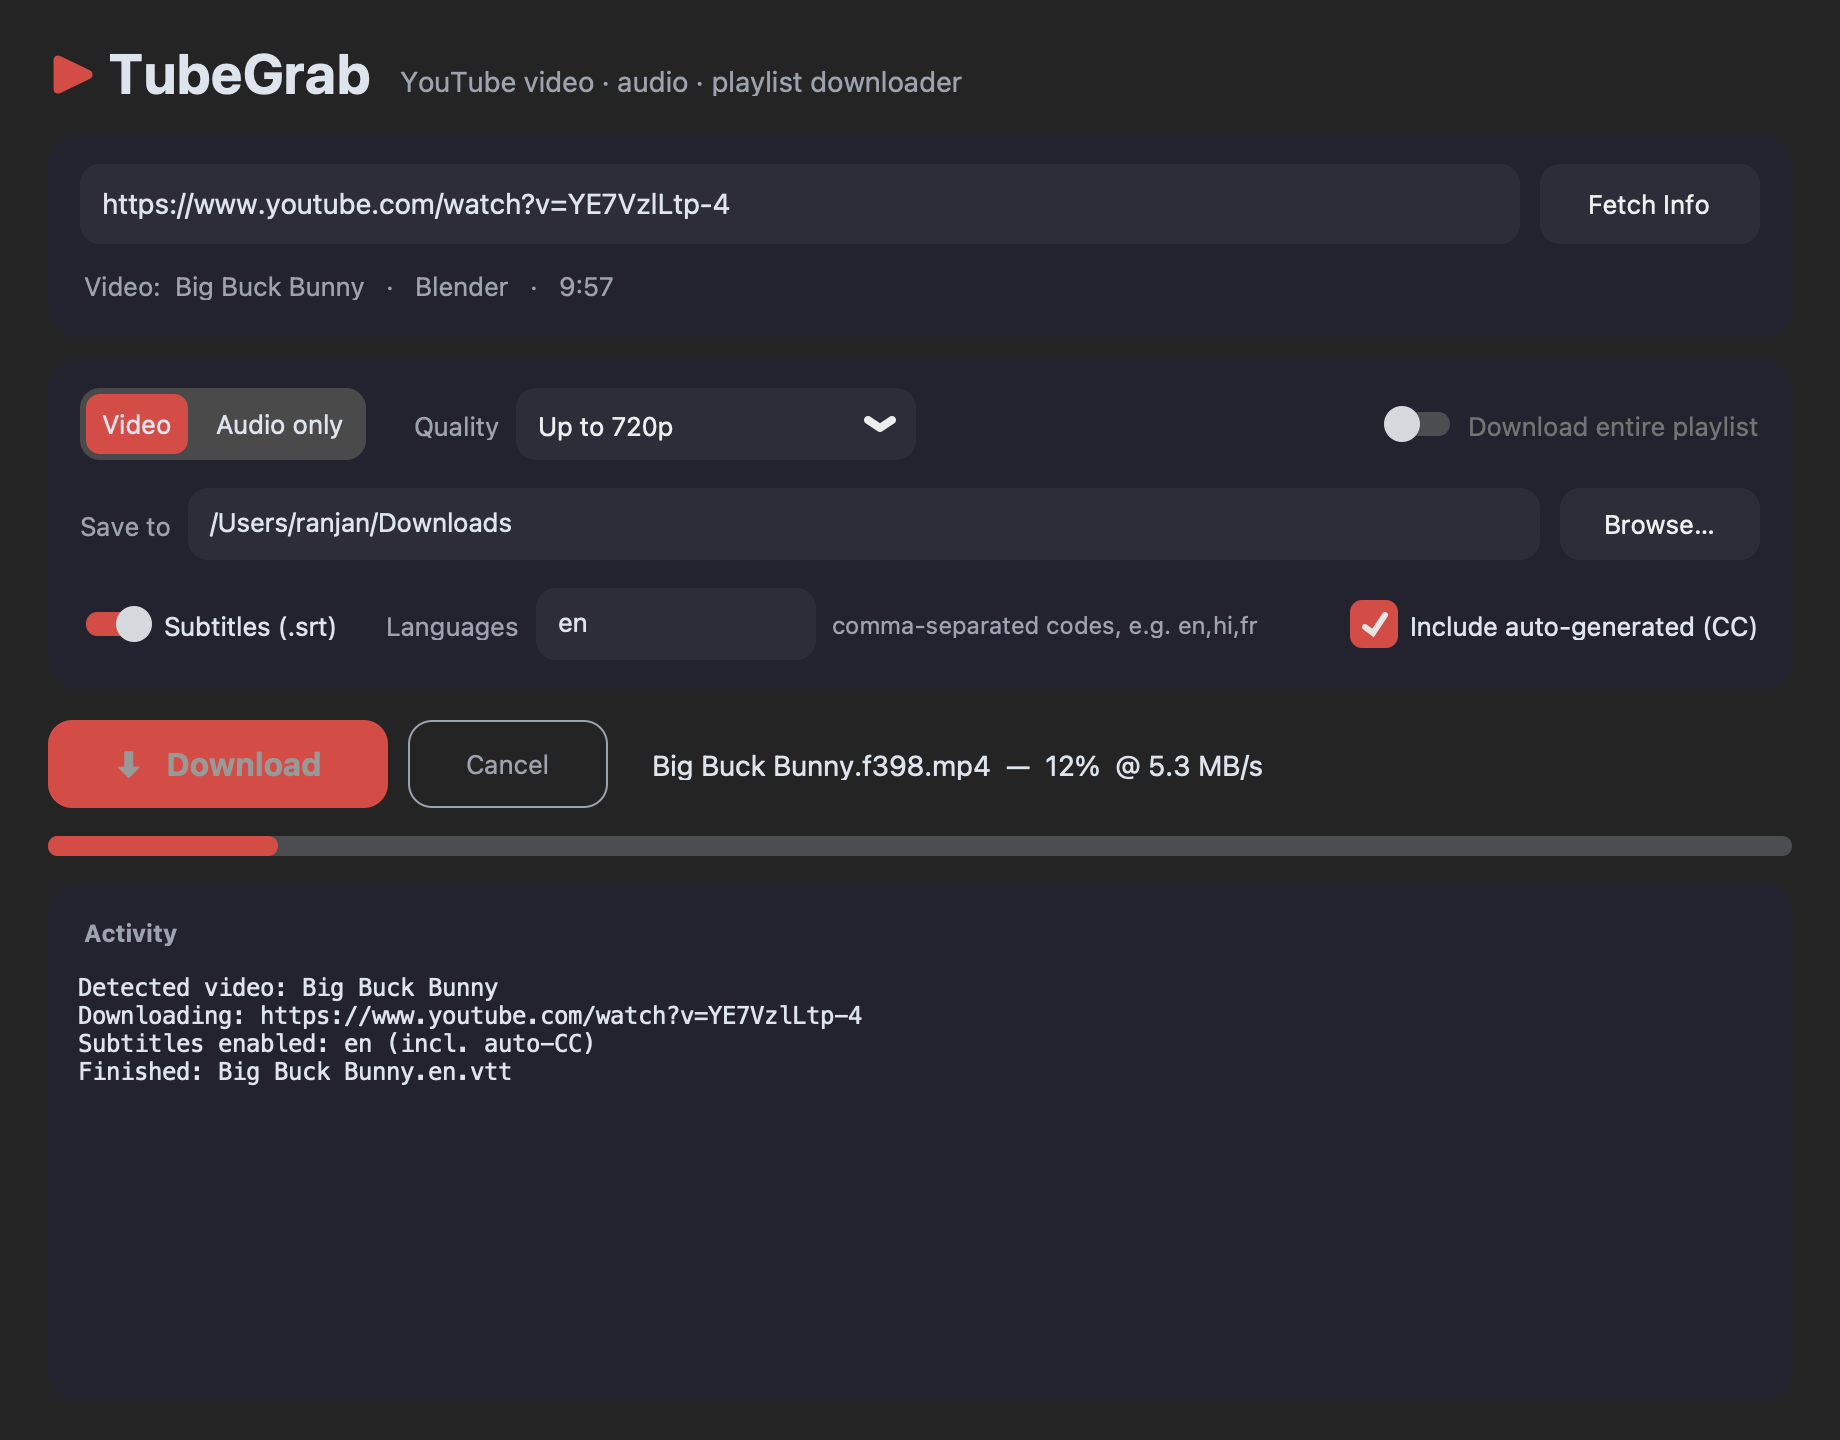
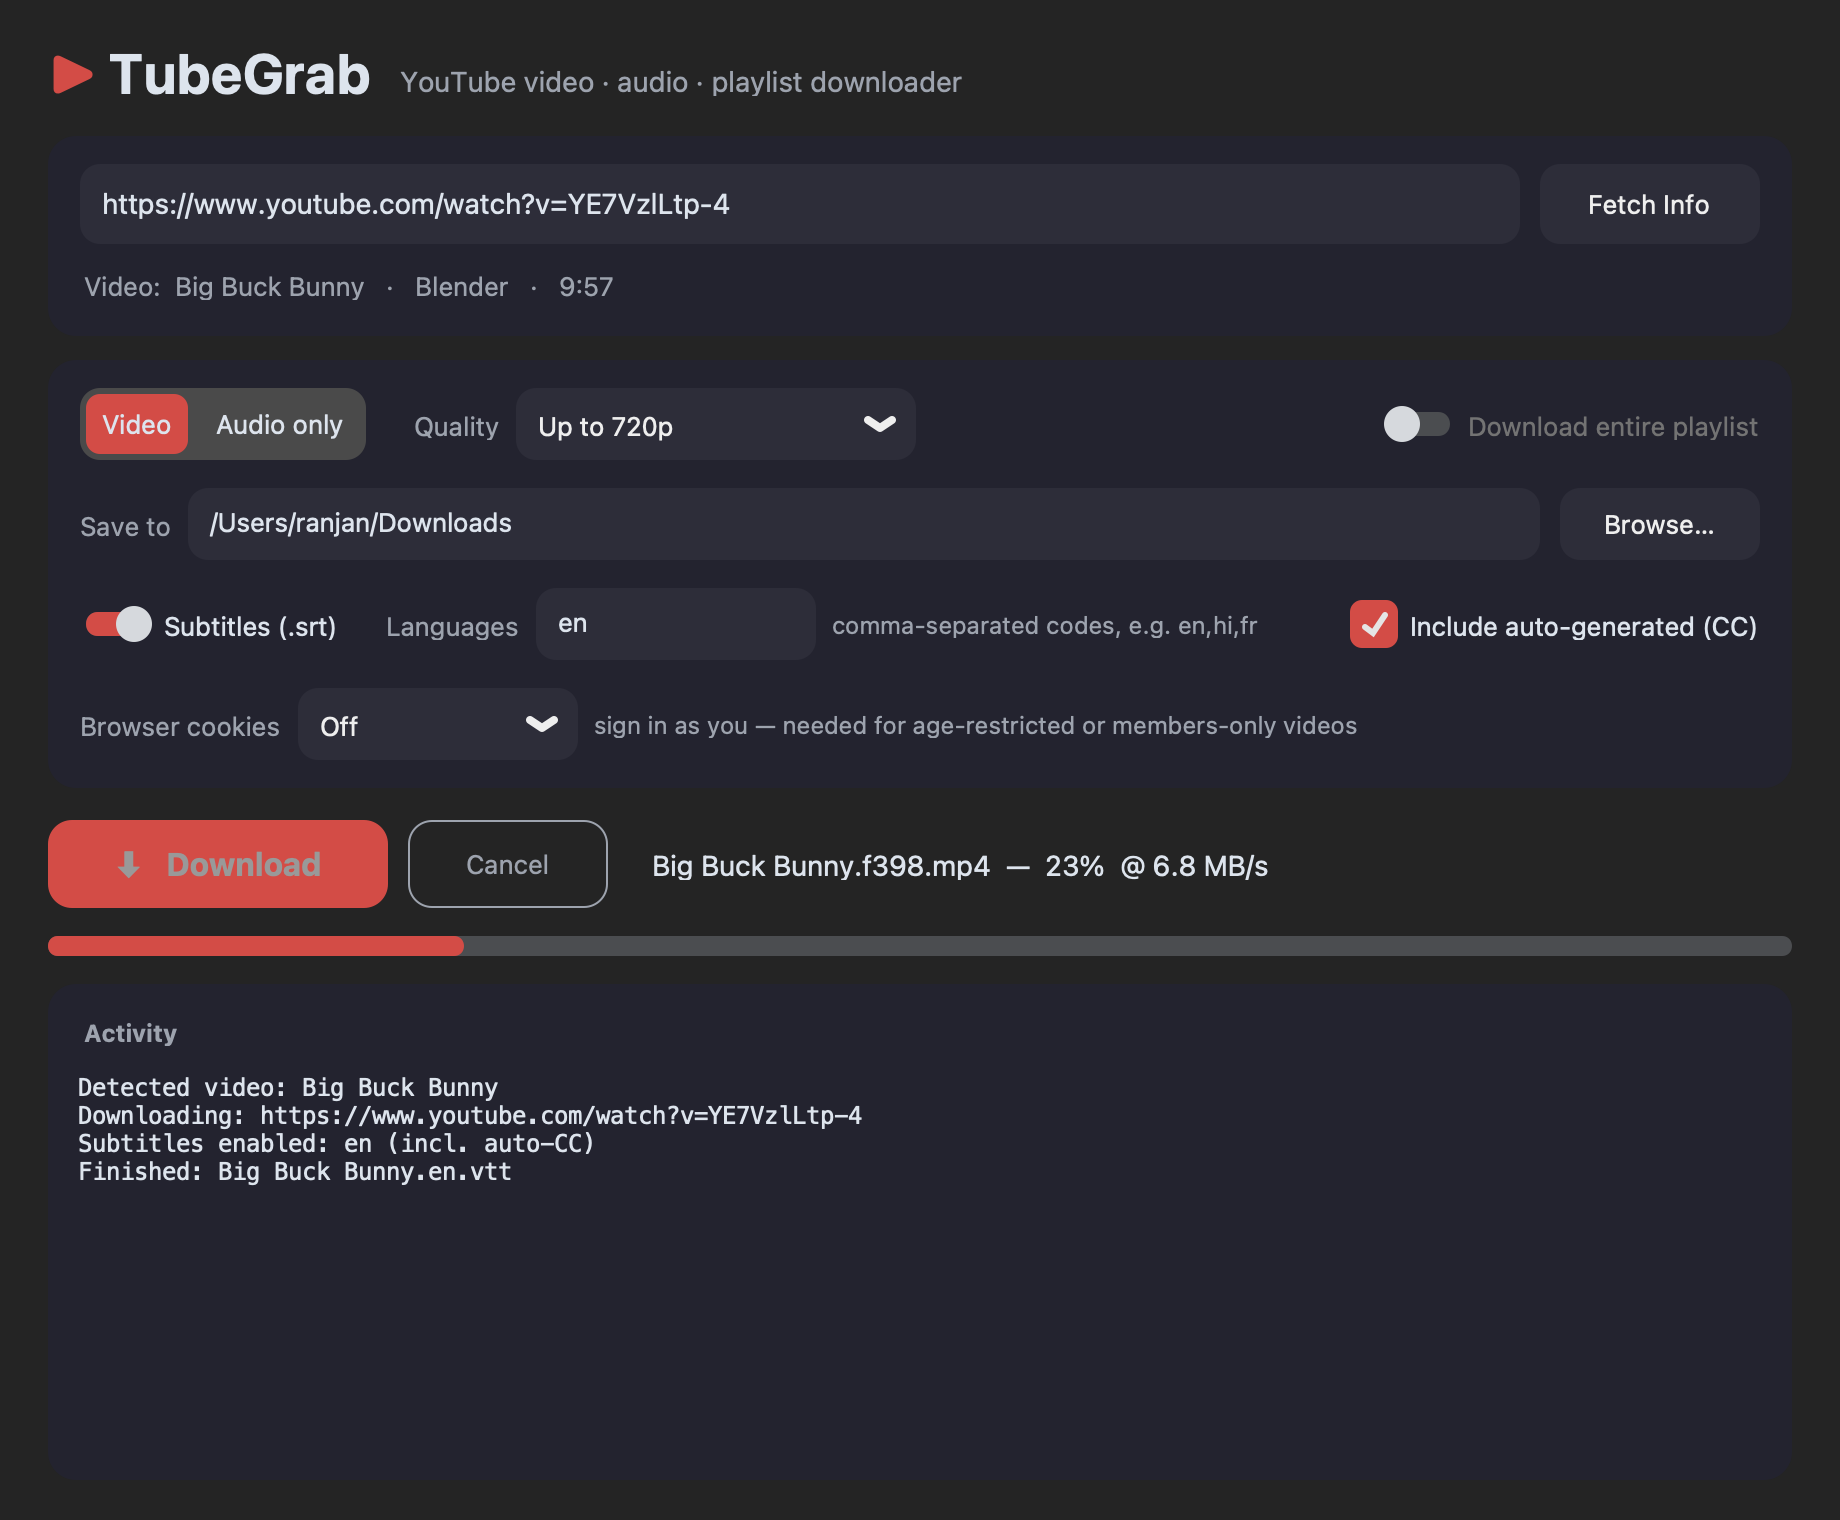
Add browser-cookies option for age-restricted and members-only videos

diff --git a/tubegrab.py b/tubegrab.py
@@ -55,8 +55,8 @@ class TubeGrab(ctk.CTk):
         super().__init__()
         ctk.set_appearance_mode("dark")
         self.title(APP_NAME)
-        self.geometry("920x720")
-        self.minsize(820, 640)
+        self.geometry("920x760")
+        self.minsize(820, 680)
 
         self.events = queue.Queue()
         self.cancel_flag = threading.Event()
@@ -174,6 +174,21 @@ class TubeGrab(ctk.CTk):
             fg_color=ACCENT, hover_color=ACCENT_HOVER,
             font=ctk.CTkFont(size=13), state="disabled")
         self.autocc_chk.pack(side="right")
+
+        # Cookies row (for age-restricted / members-only videos)
+        crow = ctk.CTkFrame(opts, fg_color="transparent")
+        crow.pack(fill="x", padx=16, pady=(0, 14))
+        ctk.CTkLabel(crow, text="Browser cookies", text_color=MUTED,
+                     font=ctk.CTkFont(size=13)).pack(side="left", padx=(0, 8))
+        self.cookies_var = tk.StringVar(value="Off")
+        ctk.CTkOptionMenu(
+            crow, variable=self.cookies_var, width=140, height=36,
+            corner_radius=10, fg_color=FIELD, button_color=FIELD,
+            button_hover_color=("#d8d8e0", "#3a3a4a"), text_color=("#111", "#eee"),
+            values=["Off", "Chrome", "Safari", "Firefox", "Edge", "Brave"]).pack(side="left")
+        ctk.CTkLabel(
+            crow, text="sign in as you — needed for age-restricted or members-only videos",
+            text_color=MUTED, font=ctk.CTkFont(size=12)).pack(side="left", padx=(8, 0))
 
         # Action row
         act = ctk.CTkFrame(root, fg_color="transparent")
@@ -300,6 +315,11 @@ class TubeGrab(ctk.CTk):
                     "preferredcodec": codec,
                     "preferredquality": bitrate,
                 }]
+
+        if self.cookies_var.get() != "Off":
+            ydl_opts["cookiesfrombrowser"] = (self.cookies_var.get().lower(),)
+            self._log(f"Using {self.cookies_var.get()} cookies "
+                      "(your OS may ask permission on first use)")
 
         if self.subs_var.get():
             langs = [l.strip() for l in self.sublang_var.get().split(",") if l.strip()]

diff --git a/README.md b/README.md
@@ -22,6 +22,7 @@ A sleek, dark-mode desktop GUI for downloading YouTube **videos**, **audio**, an
 - **Video downloads** with quality caps: Best available, 4K, 1080p, 720p, 480p (merged to `.mp4`)
 - **Audio-only downloads**: best original format, MP3 320/192 kbps, or M4A (AAC)
 - **Subtitles (.srt)** — grab manual subtitles and/or YouTube's auto-generated captions (CC) in any languages (`en,hi,fr,…`), converted to `.srt` with ffmpeg
+- **Browser cookies** — sign in as yourself (Chrome/Safari/Firefox/Edge/Brave) to download age-restricted or members-only videos
 - **Playlist support** — auto-detected from the URL; saves into a folder named after the playlist with numbered files (`01 - Title.mp4`, …)
 - **Fetch Info** before downloading to confirm you have the right video/playlist
 - Live **progress bar**, download **speed**, and a scrollable **log**
@@ -71,6 +72,7 @@ python -m venv .venv
 
 ## Troubleshooting
 
+- **"Sign in to confirm your age"** — set **Browser cookies** to the browser where you're logged in to YouTube and retry. On macOS, Chrome will ask for keychain access ("Always Allow") and Safari needs Full Disk Access for your terminal; Firefox needs neither.
 - **"The page needs to be reloaded" / missing formats** — YouTube changes frequently; update yt-dlp: `.venv/bin/pip install -U yt-dlp`
 - **"No supported JavaScript runtime" warning** — some high-quality formats need a JS runtime; install one with `brew install deno` (optional, downloads still work without it)
 - **Merge/conversion errors** — make sure `ffmpeg` is installed and on your `PATH`